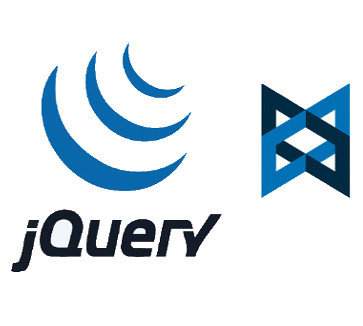
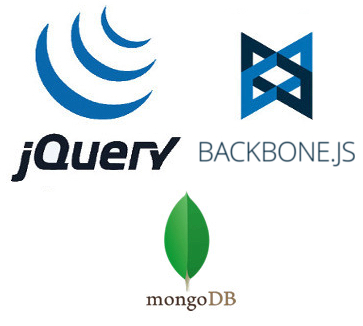
added mongoDB pic/desc, added onto more info for donut site

Changed region(s): [[0.0303, 0.0, 0.5455, 0.5828], [0.5455, 0.092, 1.0, 0.6135], [0.0303, 0.5828, 0.6667, 0.9509]]

diff --git a/index.html b/index.html
@@ -105,7 +105,7 @@
     	<div id="skill-three-img" class="skill-img">
     		<img src="./imgs/skill3.jpg" alt="jQuery and Backbone.js" />
     	</div>
-    	<div id="skill-three-desc">Backbone.js has quickly become one of the greatest assests I've learned. In utilizing this MVC (Model-View-Controller) framework along with jQuery, I've been able to create very fast SPA (Single Page Application) websites.</div>
+    	<div id="skill-three-desc">Backbone.js has quickly become one of the greatest assests I've learned. In utilizing this MVC (Model-View-Controller) framework along with jQuery, I've been able to create very fast SPA (Single Page Application) websites and has allowed me to learn the basics of MongoDB for certain projects.</div>
     </div>
 </script>
 
@@ -124,7 +124,7 @@
 					<br />
 				<div id="donut-desc">Website was created to showcase menu and provide information of this specific location. <a href="#" class="more-info">More Info</a>
 				</div>
-				<p id="more-donut" class="hidden">Wireframe was first drawn then discussed with others on design and interaction. This discussion is what led me to learn bootstrap to implement modern styles and design for the site and allowed to me understand more of backbone.js through hands-on experience.</p>
+				<p id="more-donut" class="hidden">Wireframe was first drawn then discussed with others on design and interaction. This discussion is what led me to learn bootstrap to implement modern styles and design for the site and allowed to me understand more of backbone.js through hands-on experience. MongoDB approach was first attempted before utilizing a RESTful API.</p>
 			</div>
 		</div>
 		<hr width="75%" />
